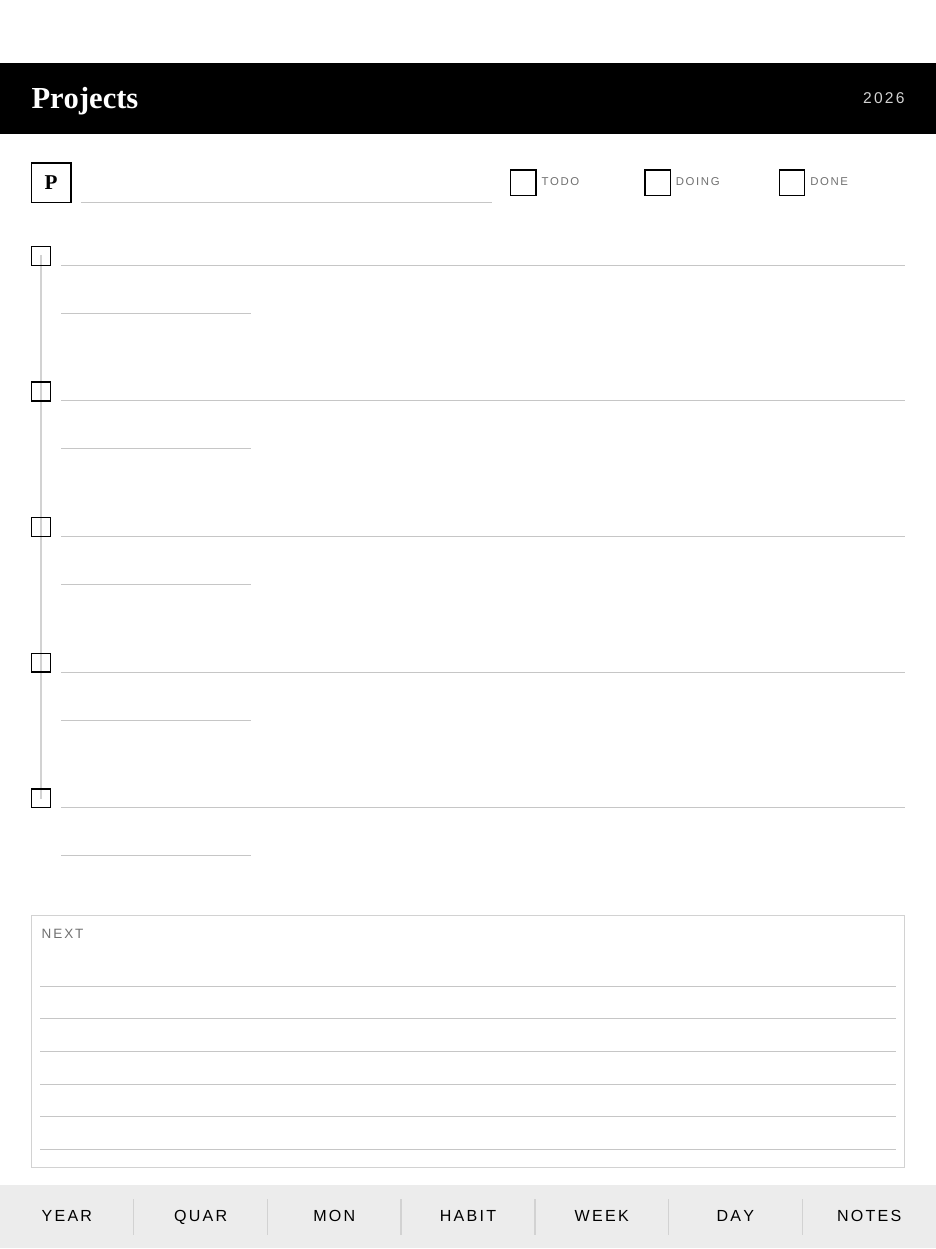
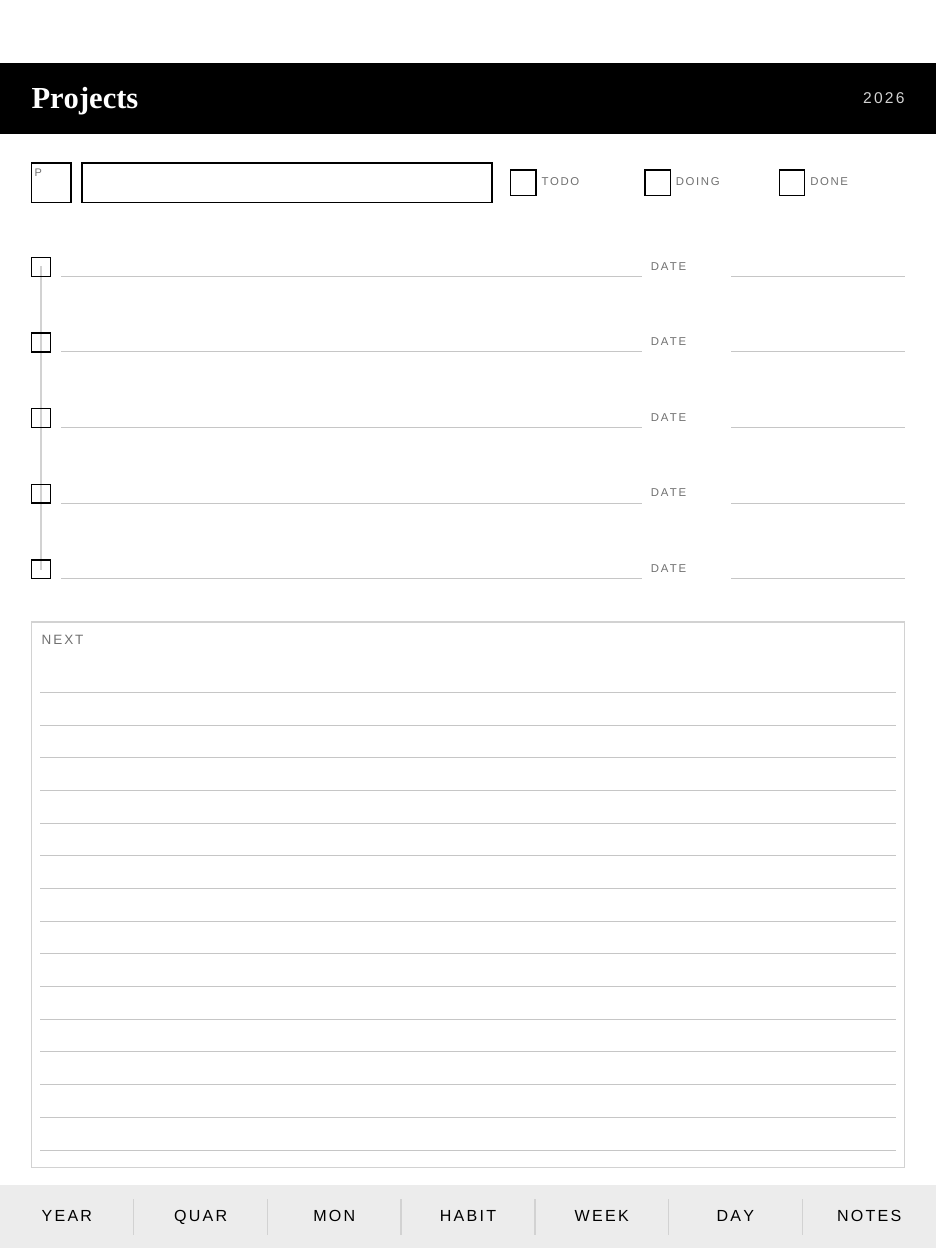
Tighten Thesis O rungs and grow the Next notes pocket.
Content-height milestone rows free height for lined Next notes.
Soft muted scaps P, hairline name box, and a right-side Date field.

diff --git a/src/parch/layouts/planner/painters.py b/src/parch/layouts/planner/painters.py
@@ -283,73 +283,123 @@ MILESTONE_STATUS_W = 50.0
 MILESTONE_HEAD_GAP = 2.4
 MILESTONE_BODY_GAP = 2.6
 MILESTONE_NOTES_GAP = 2.6
-MILESTONE_NOTES_H = 32.0
-MILESTONE_RUNG_GAP = 2.2
-MILESTONE_NAME_H = 5.4
-MILESTONE_DATE_W = 24.0
-MILESTONE_DATE_H = 3.6
-MILESTONE_NAME_DATE_GAP = 1.0
+MILESTONE_RUNG_H = 8.2
+MILESTONE_RUNG_GAP = 1.4
+MILESTONE_NAME_GAP = 1.4
 MILESTONE_TICK_GAP = 1.4
+MILESTONE_DATE_W = 22.0
+MILESTONE_DATE_LABEL_W = 9.0
+MILESTONE_DATE_GAP = 1.2
+MILESTONE_P_PAD = 0.40
+MILESTONE_P_CORNER = (2.15, 1.85)
+MILESTONE_P_SIZE = 5.2
+
+
+def milestone_rungs_height(rungs: int) -> float:
+    """Content-height ladder — leftover goes to Next, not dead air."""
+    n = max(1, rungs)
+    return n * MILESTONE_RUNG_H + (n - 1) * MILESTONE_RUNG_GAP
 
 
 def projects_milestones_seats(
     well: Rect, rungs: int
 ) -> tuple[Rect, tuple[Rect, ...], Rect]:
-    """Name+status head, stacked milestone rungs, compact next-notes."""
+    """Name+status head, content-height rungs, flex Next notes."""
     head, rest = well.split_top(MILESTONE_HEAD_H)
     leftover = Rect(rest.x, rest.y + MILESTONE_BODY_GAP, rest.w, rest.h - MILESTONE_BODY_GAP)
-    body_h = leftover.h - MILESTONE_NOTES_GAP - MILESTONE_NOTES_H
-    body = Rect(leftover.x, leftover.y, leftover.w, body_h)
-    notes = Rect(leftover.x, leftover.bottom - MILESTONE_NOTES_H, leftover.w, MILESTONE_NOTES_H)
+    body, after = leftover.split_top(milestone_rungs_height(rungs))
+    notes = Rect(after.x, after.y + MILESTONE_NOTES_GAP, after.w, after.h - MILESTONE_NOTES_GAP)
     return head, rows(body, max(1, rungs), gap=MILESTONE_RUNG_GAP), notes
 
 
-def projects_milestones_head_seats(head: Rect) -> tuple[Rect, Rect]:
-    """P+name underline | Todo / Doing / Done for the project as a whole."""
-    name, _status = head.split_left(head.w - MILESTONE_STATUS_W)
-    name = Rect(name.x, name.y, max(name.w - MILESTONE_HEAD_GAP, 1), name.h)
-    status = Rect(name.right + MILESTONE_HEAD_GAP, head.y, head.right - name.right - MILESTONE_HEAD_GAP, head.h)
-    return name, status
+def projects_milestones_head_seats(head: Rect) -> tuple[Rect, Rect, Rect]:
+    """P mark, bordered name field, Todo / Doing / Done."""
+    ident, _status = head.split_left(head.w - MILESTONE_STATUS_W)
+    ident = Rect(ident.x, ident.y, max(ident.w - MILESTONE_HEAD_GAP, 1), ident.h)
+    status = Rect(
+        ident.right + MILESTONE_HEAD_GAP,
+        head.y,
+        head.right - ident.right - MILESTONE_HEAD_GAP,
+        head.h,
+    )
+    mark, field = projects_milestones_name_field(ident)
+    return mark, field, status
 
 
-def projects_milestones_rung_seats(rung: Rect) -> tuple[Rect, Rect, Rect]:
-    """Tick + name underline over a thin optional date underline."""
-    tick_y = rung.y + (MILESTONE_NAME_H - TICK) / 2
+def projects_milestones_name_field(ident: Rect) -> tuple[Rect, Rect]:
+    """P square and the hairline name box beside it — G craft, O only."""
+    y = ident.y + (ident.h - PROJECT_P) / 2
+    mark = Rect(ident.x, y, PROJECT_P, PROJECT_P)
+    field = Rect(
+        mark.right + MILESTONE_NAME_GAP,
+        y,
+        max(ident.right - mark.right - MILESTONE_NAME_GAP, 1),
+        PROJECT_P,
+    )
+    return mark, field
+
+
+def projects_milestones_rung_seats(rung: Rect) -> tuple[Rect, Rect, Rect, Rect]:
+    """Tick + name underline | Date label + short right-side date field."""
+    tick_y = rung.y + (rung.h - TICK) / 2
     tick = Rect(rung.x, tick_y, TICK, TICK)
-    name = Rect(
+    rest = Rect(
         tick.right + MILESTONE_TICK_GAP,
         rung.y,
         max(rung.right - tick.right - MILESTONE_TICK_GAP, 1),
-        MILESTONE_NAME_H,
+        rung.h,
     )
     date = Rect(
-        name.x,
-        name.bottom + MILESTONE_NAME_DATE_GAP,
+        rest.right - MILESTONE_DATE_W,
+        rest.y,
         MILESTONE_DATE_W,
-        MILESTONE_DATE_H,
+        rest.h,
     )
-    return tick, name, date
+    label = Rect(
+        date.x - MILESTONE_DATE_GAP - MILESTONE_DATE_LABEL_W,
+        rest.y,
+        MILESTONE_DATE_LABEL_W,
+        rest.h,
+    )
+    name = Rect(rest.x, rest.y, max(label.x - MILESTONE_DATE_GAP - rest.x, 1), rest.h)
+    return tick, name, label, date
 
 
 def paint_projects_milestones(plotter: Plotter, box: Rect, ladder: ProjectsMilestones) -> None:
     """Thesis O — milestone ladder toward done. Not a kanban or meeting dump."""
     head, rungs, notes = projects_milestones_seats(box, ladder.rungs)
-    name, status = projects_milestones_head_seats(head)
-    _paint_project_name(plotter, name)
+    mark, field, status = projects_milestones_head_seats(head)
+    _paint_milestone_priority(plotter, mark)
+    plotter.rect(field, stroke=True, fill=False, stroke_width=HAIR, stroke_gray=INK)
     _paint_project_status(plotter, status)
     _paint_milestone_spine(plotter, rungs)
     for rung in rungs:
-        tick, name_box, date = projects_milestones_rung_seats(rung)
-        _paint_milestone_rung(plotter, tick, name_box, date)
+        tick, name_box, date_label, date = projects_milestones_rung_seats(rung)
+        _paint_milestone_rung(plotter, tick, name_box, date_label, date)
     _paint_note_box(plotter, notes, label="Next")
+
+
+def _paint_milestone_priority(plotter: Plotter, mark: Rect) -> None:
+    """Soft P: muted scaps Sans, 0.40 mm pad — not the default serif slab."""
+    plotter.rect(mark, stroke=True, fill=False, stroke_width=HAIR, stroke_gray=INK)
+    cw, ch = MILESTONE_P_CORNER
+    plotter.text(
+        Rect(mark.x + MILESTONE_P_PAD, mark.y + MILESTONE_P_PAD, cw, ch),
+        "P",
+        size=MILESTONE_P_SIZE,
+        face="sans",
+        gray=MUTED,
+        align="left",
+        small_caps=True,
+    )
 
 
 def _paint_milestone_spine(plotter: Plotter, rungs: tuple[Rect, ...]) -> None:
     """Quiet hairline through tick centers — the ladder, not a kanban rail."""
     if len(rungs) < 2:
         return
-    first, _, _ = projects_milestones_rung_seats(rungs[0])
-    last, _, _ = projects_milestones_rung_seats(rungs[-1])
+    first, *_ = projects_milestones_rung_seats(rungs[0])
+    last, *_ = projects_milestones_rung_seats(rungs[-1])
     x = first.x + first.w / 2
     plotter.line(
         x,
@@ -361,7 +411,9 @@ def _paint_milestone_spine(plotter: Plotter, rungs: tuple[Rect, ...]) -> None:
     )
 
 
-def _paint_milestone_rung(plotter: Plotter, tick: Rect, name: Rect, date: Rect) -> None:
+def _paint_milestone_rung(
+    plotter: Plotter, tick: Rect, name: Rect, date_label: Rect, date: Rect
+) -> None:
     plotter.rect(tick, stroke=True, fill=False, stroke_width=HAIR, stroke_gray=INK)
     plotter.line(
         name.x,
@@ -371,11 +423,20 @@ def _paint_milestone_rung(plotter: Plotter, tick: Rect, name: Rect, date: Rect) 
         stroke_width=RULE,
         stroke_gray=RULE_C,
     )
+    plotter.text(
+        date_label,
+        "Date",
+        size=5.4,
+        face="sans",
+        gray=MUTED,
+        small_caps=True,
+        align="left",
+    )
     plotter.line(
         date.x,
-        date.bottom,
+        tick.bottom,
         date.right,
-        date.bottom,
+        tick.bottom,
         stroke_width=RULE,
         stroke_gray=RULE_C,
     )

diff --git a/tests/test_projects_milestones.py b/tests/test_projects_milestones.py
@@ -8,12 +8,16 @@ from parch.layouts.planner.layout import well_rect
 from parch.layouts.planner.painters import (
     HAIR,
     MILESTONE_BODY_GAP,
+    MILESTONE_DATE_LABEL_W,
     MILESTONE_DATE_W,
     MILESTONE_HEAD_H,
     MILESTONE_NOTES_GAP,
-    MILESTONE_NOTES_H,
+    MILESTONE_P_PAD,
+    MILESTONE_P_SIZE,
     MILESTONE_RUNG_GAP,
+    MILESTONE_RUNG_H,
     MILESTONE_STATUS_W,
+    MUTED,
     PROJECT_NOTE_PITCH,
     PROJECT_P,
     PROJECT_STATUS_MARK,
@@ -21,6 +25,7 @@ from parch.layouts.planner.painters import (
     RULE_C,
     SOFT,
     TICK,
+    milestone_rungs_height,
     paint_projects_milestones,
     projects_milestones_head_seats,
     projects_milestones_rung_seats,
@@ -72,36 +77,43 @@ def test_projects_milestones_seats_ladder():
     assert head.w == pytest.approx(well.w)
     assert len(rungs) == 5
     assert rungs[0].y == pytest.approx(head.bottom + MILESTONE_BODY_GAP)
+    assert rungs[0].h == pytest.approx(MILESTONE_RUNG_H)
     assert rungs[1].y == pytest.approx(rungs[0].bottom + MILESTONE_RUNG_GAP)
-    assert rungs[-1].bottom == pytest.approx(notes.y - MILESTONE_NOTES_GAP)
-    assert notes.h == pytest.approx(MILESTONE_NOTES_H)
+    assert rungs[-1].bottom == pytest.approx(rungs[0].y + milestone_rungs_height(5))
+    assert notes.y == pytest.approx(rungs[-1].bottom + MILESTONE_NOTES_GAP)
     assert notes.bottom == pytest.approx(well.bottom)
     assert notes.x == pytest.approx(well.x)
     assert notes.w == pytest.approx(well.w)
     for rung in rungs:
         assert rung.x == pytest.approx(well.x)
         assert rung.w == pytest.approx(well.w)
-        assert rung.h == pytest.approx(rungs[0].h)
+        assert rung.h == pytest.approx(MILESTONE_RUNG_H)
     leftover = well.h - MILESTONE_HEAD_H - MILESTONE_BODY_GAP - MILESTONE_NOTES_GAP
-    assert notes.h / leftover < 0.35
-    assert rungs[0].h * 5 > notes.h
+    assert notes.h > milestone_rungs_height(5)
+    assert notes.h / leftover > 0.50
 
-    name, status = projects_milestones_head_seats(head)
-    assert name.x == pytest.approx(head.x)
+    mark, field, status = projects_milestones_head_seats(head)
+    assert mark.x == pytest.approx(head.x)
+    assert mark.w == pytest.approx(PROJECT_P)
+    assert mark.h == pytest.approx(PROJECT_P)
+    assert field.x > mark.right
+    assert field.h == pytest.approx(PROJECT_P)
+    assert field.w > mark.w
     assert status.right == pytest.approx(head.right)
-    assert name.right < status.x
+    assert field.right < status.x
     assert status.w == pytest.approx(MILESTONE_STATUS_W)
 
-    tick, name_box, date = projects_milestones_rung_seats(rungs[0])
+    tick, name_box, date_label, date = projects_milestones_rung_seats(rungs[0])
     assert tick.x == pytest.approx(rungs[0].x)
     assert tick.w == pytest.approx(TICK)
     assert tick.h == pytest.approx(TICK)
     assert name_box.x > tick.right
-    assert name_box.right == pytest.approx(rungs[0].right)
-    assert date.x == pytest.approx(name_box.x)
+    assert date_label.x > name_box.right
+    assert date_label.w == pytest.approx(MILESTONE_DATE_LABEL_W)
+    assert date.x > date_label.right
     assert date.w == pytest.approx(MILESTONE_DATE_W)
-    assert date.y > name_box.bottom
-    assert date.right < name_box.right
+    assert date.right == pytest.approx(rungs[0].right)
+    assert date.y == pytest.approx(name_box.y)
 
 
 def test_projects_milestones_paint_rungs_dates_and_status():
@@ -116,6 +128,7 @@ def test_projects_milestones_paint_rungs_dates_and_status():
     assert texts.count("Doing") == 1
     assert texts.count("Done") == 1
     assert texts.count("Next") == 1
+    assert texts.count("Date") == 5
     for rejected in (
         "PROJECT",
         "Focus",
@@ -129,6 +142,21 @@ def test_projects_milestones_paint_rungs_dates_and_status():
         "Active",
     ):
         assert rejected not in texts
+
+    p_text = next(op for op in plotter.ops if op[0] == "text" and op[2] == "P")
+    assert p_text[5] is False
+    assert p_text[6] == "sans"
+    assert p_text[7] == pytest.approx(MUTED)
+    assert p_text[8] is True
+    assert p_text[3] == pytest.approx(MILESTONE_P_SIZE)
+    assert p_text[1].x == pytest.approx(
+        next(
+            op[1].x
+            for op in plotter.ops
+            if op[0] == "rect" and op[2] and not op[3] and op[1].w == pytest.approx(PROJECT_P)
+        )
+        + MILESTONE_P_PAD
+    )
 
     ticks = [
         op
@@ -153,6 +181,18 @@ def test_projects_milestones_paint_rungs_dates_and_status():
         if op[0] == "rect" and op[2] and not op[3] and op[1].w == pytest.approx(PROJECT_P)
     ]
     assert len(p_boxes) == 1
+
+    _, field, _ = projects_milestones_head_seats(projects_milestones_seats(well, 5)[0])
+    name_boxes = [
+        op
+        for op in plotter.ops
+        if op[0] == "rect"
+        and op[2]
+        and not op[3]
+        and op[1].w == pytest.approx(field.w)
+        and op[1].h == pytest.approx(PROJECT_P)
+    ]
+    assert len(name_boxes) == 1
 
     fills = [op for op in plotter.ops if op[0] == "rect" and op[3]]
     assert fills == []
@@ -209,7 +249,7 @@ def test_projects_milestones_paint_rungs_dates_and_status():
         and op[6] == pytest.approx(RULE_C)
         and op[3] - op[1] == pytest.approx(note_inset_w)
     ]
-    assert len(note_rules) >= 4
+    assert len(note_rules) >= 12
     assert all(op[2] > notes.y for op in note_rules)
 
     card_outlines = [
@@ -226,8 +266,9 @@ def test_projects_milestones_knobs():
     ladder = next(item for item in page.components if isinstance(item, ProjectsMilestones))
     assert ladder.rungs == 4
     well = well_rect(NOMAD)
-    _, rungs, _ = projects_milestones_seats(well, ladder.rungs)
+    _, rungs, notes = projects_milestones_seats(well, ladder.rungs)
     assert len(rungs) == 4
+    assert notes.h > milestone_rungs_height(4)
     plotter = RecordingPlotter()
     paint_projects_milestones(plotter, well, ladder)
     ticks = [
@@ -245,7 +286,9 @@ def test_projects_milestones_knobs():
         and op[3] - op[1] == pytest.approx(MILESTONE_DATE_W)
     ]
     assert len(date_rules) == 4
-    assert [op[2] for op in plotter.ops if op[0] == "text"].count("P") == 1
+    texts = [op[2] for op in plotter.ops if op[0] == "text"]
+    assert texts.count("P") == 1
+    assert texts.count("Date") == 4
 
 
 def test_projects_milestones_header_year_and_seven_tabs():
